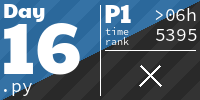
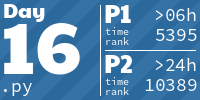
day 16 (2)

diff --git a/2022/16/16.py b/2022/16/16.py
@@ -1,85 +1,88 @@
 # https://adventofcode.com/2022/day/16
 
-from copy import deepcopy
+
+from collections import deque
 from collections import defaultdict
+
 
 FILENAME = './2022/16/16.in'
 
 raw = open(FILENAME).read().strip()
 lines = [line.strip() for line in open(FILENAME)]
 
-C = defaultdict(list)
-R = defaultdict(int)
+tunnels = defaultdict(list)
+rates = defaultdict(int)
 
 for line in lines:
     parts = line.split()
-    _id = parts[1]
+    valve = parts[1]
+
     rate = int(parts[4][5:-1])
-    con = [c for c in "".join(parts[9:]).split(',')]
-    for c in con:
-        C[_id].append(c)
-    R[_id] = rate
+    rates[valve] = rate
+
+    connections = [c for c in "".join(parts[9:]).split(',')]
+    for c in connections:
+        tunnels[valve].append(c)
 
 
-S = {}
+dists = {}  # get rid of valves without pressure rates and get distance to them
+for valve in rates.keys():
+    if valve != 'AA' and rates[valve] == 0:
+        continue
+
+    dists[valve] = {valve: 0, 'AA': 0}
+    seen = {valve}
+
+    queue = deque([(0, valve)])
+
+    while queue:
+        distance, position = queue.popleft()
+        for neighbor in tunnels[position]:
+            if neighbor in seen:
+                continue
+            seen.add(neighbor)
+            if rates[neighbor]:
+                dists[valve][neighbor] = distance + 1
+            queue.append((distance + 1, neighbor))
+
+    del dists[valve][valve]
+    if valve != 'AA':
+        del dists[valve]['AA']
 
 
-def v(_id, _open, _time):
-    if _time == 0:
+cache = {}
+indices = {valve: idx for idx, valve in enumerate(dists.keys())}
+
+
+def dfs(time, valve, bit_mask):
+    if time == 0:
         return 0
 
-    key = (_id, tuple(sorted(_open)), _time)
-    if key in S:
-        return S[key]
+    if (time, valve, bit_mask) in cache:
+        return cache[(time, valve, bit_mask)]
 
-    ans = 0
+    score = 0
 
-    if _time > 0:
-        if _id not in _open and R[_id] > 0:
-            _open_new = deepcopy(_open)
-            _open_new.add(_id)
-            ans = max(
-                ans,
-                sum(R[_id] for _id in _open) + v(_id, _open_new, _time-1)
-            )
+    if time > 0:
+        bit = 1 << indices[valve]
 
-        for c in C[_id]:
-            ans = max(
-                ans,
-                sum(R[_id] for _id in _open) + v(c, _open, _time-1)
-            )
+        if not (bit_mask & bit) and rates[valve] > 0:
+            score = max(score, rates[valve]*(time - 1) + dfs(time-1, valve, bit_mask | bit))
 
-    S[key] = ans
-    return ans
+        for neighbor, distance in dists[valve].items():
+            score = max(score, dfs(time-distance, neighbor, bit_mask))
+
+    cache[(time, valve, bit_mask)] = score
+    return score
 
 
-print(f'🎄 1. Solution: {v("AA", set(), 30)}')
-
-# while Q:
-#     score, _id, _open, _time = Q.popleft()
-#     print(_time)
-#     ans = max(ans, score)
-
-#     key = (_id, tuple(sorted(_open)), _time)
-#     if key in S:
-#         # if S[key] > score:
-#         continue
-
-#     if _time > 0:
-#         score = score + sum([R[_id] for _id in _open])
-
-#         for c in C[_id]:
-#             S[(_id, tuple(sorted(_open)), _time)] = score
-#             Q.append([score, c, _open, _time - 1])
-
-#         if _id not in _open and R[_id] > 0:
-#             _open = deepcopy(_open)
-#             _open.add(_id)
-#             S[(_id, tuple(sorted(_open)), _time)] = score
-#             Q.append([score, _id, _open, _time - 1])
+print(f'🎄 1. Solution: {dfs(30, "AA", 0)}')
 
 
+wtf = (1 << len(dists)) - 1
+max_score = 0
 
-# print(ans)
-
-# print(f'🎅 2. Solution: {xn * MAX_COORD + yn}')
+for i in range((wtf + 1) // 2):
+    max_score = max(max_score, dfs(26, "AA", i) + dfs(26, "AA", wtf ^ i))
+    print(f'\r🎅 2. Solution: {max_score} ... ({i / (wtf // 2) * 100:0.1f}%)', end='')
+print(f'\r🎅 2. Solution: {max_score}')

diff --git a/README.md b/README.md
@@ -10,7 +10,7 @@
 
 <!-- AOC TILES BEGIN -->
 <h1 align="center">
-  2022 - 33 ⭐
+  2022 - 34 ⭐
 </h1>
 <a href="2022/01/01.jl">
   <img src="assets/2022/01.png" width="161px">
